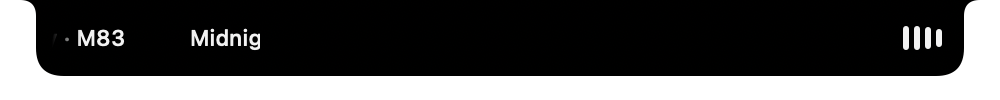
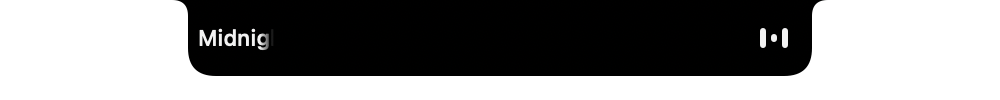
README images for 0.5
Rendered from a check build with default settings and sample content. Snapshot runs show the
agents' neutral symbol instead of the installed apps' icons (no third-party logos in the
repository) and leave out the glass back/forward capsule, which a snapshot captures as a white blob.

Changed region(s): [[0.0, 0.0, 0.279, 0.78], [0.744, 0.0, 0.992, 0.78]]

diff --git a/Sources/Deckhand/Features/Claude/AgentProvider.swift b/Sources/Deckhand/Features/Claude/AgentProvider.swift
@@ -31,8 +31,11 @@ enum AgentProvider: String, CaseIterable, Sendable {
     }
 
     /// The agent's icon taken from its installed app, looked up once. Deckhand ships no logos.
+    /// Snapshot runs (README images) use the neutral symbol: the repository carries no third-party logos,
+    /// not even in screenshots, and the images come out the same on every Mac.
     @MainActor
     var appIcon: NSImage? {
+        if AppPaths.isSnapshot { return nil }
         if let cached = Self.icons[self] { return cached }
         let icon = iconApps.lazy
             .compactMap { NSWorkspace.shared.urlForApplication(withBundleIdentifier: $0) }

diff --git a/Sources/Deckhand/UI/Settings/SettingsWindow.swift b/Sources/Deckhand/UI/Settings/SettingsWindow.swift
@@ -205,7 +205,8 @@ final class SettingsWindowController: NSWindowController, NSWindowDelegate, NSTo
     // MARK: Toolbar
 
     func toolbarDefaultItemIdentifiers(_ toolbar: NSToolbar) -> [NSToolbarItem.Identifier] {
-        [Self.trackingItem, Self.navigationItem, .flexibleSpace]
+        // The system draws back and forward as glass, which a snapshot captures as a white blob
+        AppPaths.isSnapshot ? [Self.trackingItem, .flexibleSpace] : [Self.trackingItem, Self.navigationItem, .flexibleSpace]
     }
 
     func toolbarAllowedItemIdentifiers(_ toolbar: NSToolbar) -> [NSToolbarItem.Identifier] {
